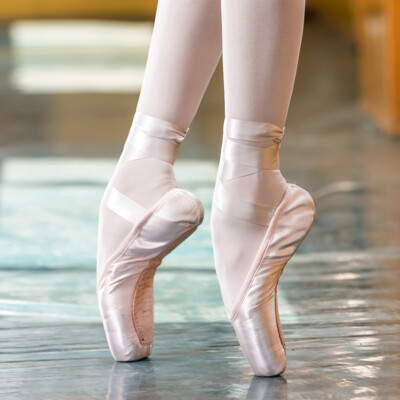
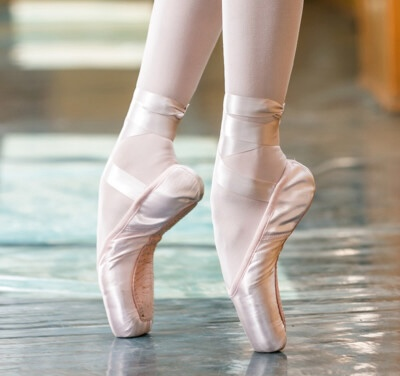
add: CSS, productpage, navigation

diff --git a/src/components/ItemDetailContainer/ItemDetailContainer.jsx b/src/components/ItemDetailContainer/ItemDetailContainer.jsx
@@ -1,0 +1,44 @@
+import { useState, useEffect } from "react";
+import { useParams } from "react-router-dom";
+import { ItemDetail } from "../ItemDetail/ItemDetail";
+
+export const ItemDetailContainer = () => {
+  const { id } = useParams();
+  const [itemDetail, setItemDetail] = useState(null);
+  const [error, setError] = useState(null);
+  const [loading, setLoading] = useState(true);
+
+  useEffect(() => {
+    setItemDetail(null);
+    setLoading(true);
+    setError(null);
+
+    fetch("/data/products.json")
+      .then((res) => res.json())
+      .then((data) => {
+        const item = data.find((product) => String(product.id) === id);
+        if (item) {
+          setItemDetail(item);
+          return;
+        }
+        throw new Error("Elemento no encontrado");
+      })
+      .catch((error) => setError(error.message))
+      .finally(() => {
+        setLoading(false);
+      });
+  }, [id]);
+
+  if (loading) return <p>Cargando...</p>;
+  if (error) return <p>{error}</p>;
+  if (!itemDetail) return <p>Producto no encontrado</p>;
+
+  return (
+    <section>
+      <h1>Detalles del producto</h1>
+      <div className="products-container">
+        <ItemDetail item={itemDetail} />
+      </div>
+    </section>
+  );
+};

diff --git a/src/components/ItemListContainer/ItemListContainer.jsx b/src/components/ItemListContainer/ItemListContainer.jsx
@@ -1,3 +1,33 @@
+import { useEffect, useState } from "react";
+import { ItemList } from "../ItemList/ItemList";
+
 export const ItemListContainer = () => {
-  return <></>;
+  const [products, setProducts] = useState([]);
+  const [errors, setErrors] = useState(null);
+  const [loading, setLoading] = useState(true);
+
+  useEffect(() => {
+    fetch("/data/products.json")
+      .then((res) => {
+        if (!res.ok) {
+          throw new Error(
+            "ERROR: Hubo un problema al intentar cargar los productos ☹",
+          );
+        }
+        return res.json();
+      })
+      .then((data) => setProducts(data))
+      .catch((error) => setErrors(error.message))
+      .finally(() => setLoading(false));
+  }, []);
+
+  if (loading) return <p>Cargando...</p>;
+  if (errors) return <p>{errors}</p>;
+
+  return (
+    <section>
+      <h1>NUESTROS PRODUCTOS</h1>
+      <ItemList products={products} />
+    </section>
+  );
 };

diff --git a/src/App.jsx b/src/App.jsx
@@ -4,6 +4,8 @@ import { Route, Routes } from "react-router-dom";
 
 import { Header } from "./components/Header/Header";
 import { Footer } from "./components/Footer/Footer";
+import { ItemListContainer } from "./components/ItemListContainer/ItemListContainer";
+import { ItemDetailContainer } from "./components/ItemDetailContainer/ItemDetailContainer";
 
 function App() {
   return (
@@ -11,8 +13,9 @@ function App() {
       <Header />
       <main>
         <Routes>
-          <Route path="/" element={<h1>Hola</h1>} />
+          <Route path="/" element={<ItemListContainer />} />
           <Route path="/cart" element={<h1>Carrito</h1>} />
+          <Route path="/product/:id" element={<ItemDetailContainer />} />
         </Routes>
       </main>
       <Footer />

diff --git a/src/index.css b/src/index.css
@@ -5,23 +5,23 @@
 }
 
 :root {
-  --bg: #384152;
-  --surface: #465166;
-  --card: #546178;
-  --border: #68758f;
-  --text: #f4f4f4;
-  --text-secondary: #d7dce3;
+  --bg: rgb(216, 216, 216);
+  --surface: rgb(216, 216, 216);
+  --card: rgb(226, 226, 226);
+  --border: #000000;
+  --text: #010101;
+  --text-secondary: #232323;
   --disabled: #8d97ab;
 
-  --primary: #f4a261;
-  --primary-hover: #f6b67a;
+  --primary: #6dff5d;
+  --primary-hover: #6dff5d;
   --success: #52b788;
   --danger: #e63946;
 }
 body {
   background: var(--bg);
   color: var(--text);
-  font-family: system-ui, sans-serif;
+  font-family: "Swansea", sans-serif;
 }
 
 #root {

diff --git a/src/components/Header/Header.jsx b/src/components/Header/Header.jsx
@@ -1,6 +1,6 @@
 import { Nav } from "../Nav/Nav";
 import { Link } from "react-router-dom";
-import logo from "../../assets/react.svg";
+import logo from "/img/footwear/footshop-logo.png";
 import "./Header.css";
 
 export const Header = () => {
@@ -9,7 +9,7 @@ export const Header = () => {
       <div className="logo-container">
         <Link to={"/"}>
           <img src={logo} alt="logo react" />
-          <span>App React</span>
+          <span>Shoe Store</span>
         </Link>
       </div>
       <Nav />

diff --git a/src/components/ItemList/ItemList.jsx b/src/components/ItemList/ItemList.jsx
@@ -1,0 +1,19 @@
+import { Item } from "../Item/Item";
+import { Link } from "react-router-dom";
+import "./ItemList.css";
+
+export const ItemList = ({ products }) => {
+  if (!products.length) {
+    return <p>No hay productos registrados.</p>;
+  }
+
+  return (
+    <div className="products-container">
+      {products.map((product) => (
+        <Link to={`/product/${product.id}`} key={product.id}>
+          <Item {...product} />
+        </Link>
+      ))}
+    </div>
+  );
+};

diff --git a/index.html b/index.html
@@ -3,8 +3,9 @@
   <head>
     <meta charset="UTF-8" />
     <link rel="icon" type="image/svg+xml" href="/favicon.svg" />
+    <link href="https://fonts.cdnfonts.com/css/swansea" rel="stylesheet" />
     <meta name="viewport" content="width=device-width, initial-scale=1.0" />
-    <title>pre-entrega</title>
+    <title>Shoe Store - REACT JS</title>
   </head>
   <body>
     <div id="root"></div>

diff --git a/src/components/ItemDetail/ItemDetail.jsx b/src/components/ItemDetail/ItemDetail.jsx
@@ -1,0 +1,12 @@
+import { Item } from "../Item/Item";
+import "./ItemDetail.css";
+
+export const ItemDetail = ({ item }) => {
+  return (
+    <div className="detail-wrapper">
+      <Item {...item}>
+        <button className="btn bg-primary primary">Agregar al carrito</button>
+      </Item>
+    </div>
+  );
+};

diff --git a/src/components/Item/Item.jsx b/src/components/Item/Item.jsx
@@ -1,0 +1,14 @@
+import "./Item.css";
+
+export const Item = ({ name, price, description, image, children }) => {
+  return (
+    <article className="card">
+      <img src={image} />
+      <h3>{name}</h3>
+      <p>{description}</p>
+      <p>${price}</p>
+
+      {children}
+    </article>
+  );
+};

diff --git a/src/components/ItemDetail/ItemDetail.css b/src/components/ItemDetail/ItemDetail.css
@@ -1,0 +1,11 @@
+.detail-wrapper {
+  max-width: 20rem;
+  margin: auto;
+}
+
+.detail-wrapper .card p:first-of-type {
+  display: block;
+  overflow: visible;
+  line-clamp: unset;
+  -webkit-box-orient: initial;
+}

diff --git a/src/components/Item/Item.css b/src/components/Item/Item.css
@@ -5,7 +5,7 @@
 
   background: var(--card);
   border: 1px solid var(--border);
-  border-radius: 14px;
+  border-radius: 5px;
   overflow: hidden;
 
   transition: 0.25s;
